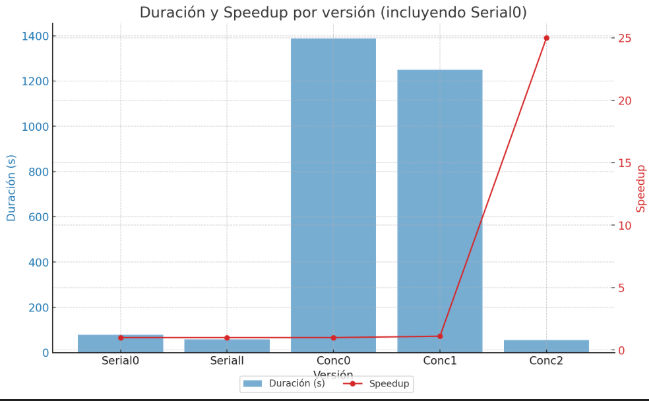
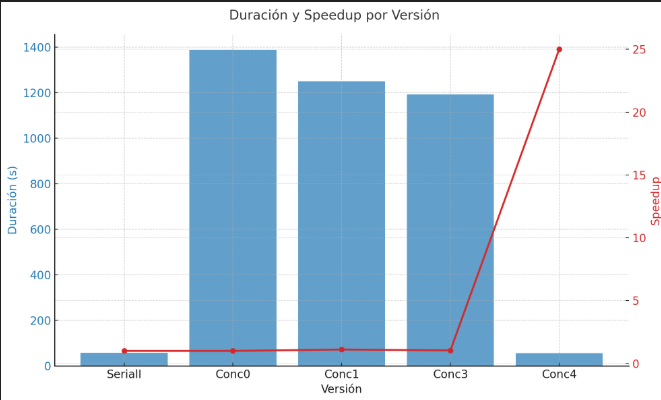
optimized: Creation of concurrency_comparison in report

diff --git a/homeworks/optimized/src/plate.c b/homeworks/optimized/src/plate.c
@@ -48,7 +48,6 @@ void make_matrix(shared_data_t* shared_data, data_array_t* data_array,
   uint64_t threads_max = shared_data->thread_count;
   // for para todas las veces que se ocupan hacer distintas simulaciones
   for (int i = 0; i < position; i++) {
-    printf("Simulacion %d\n", i);
     // cargar datos inciales
     plate_charge_RC(data_job, i, data_array);
     int rows = data_job->R;
